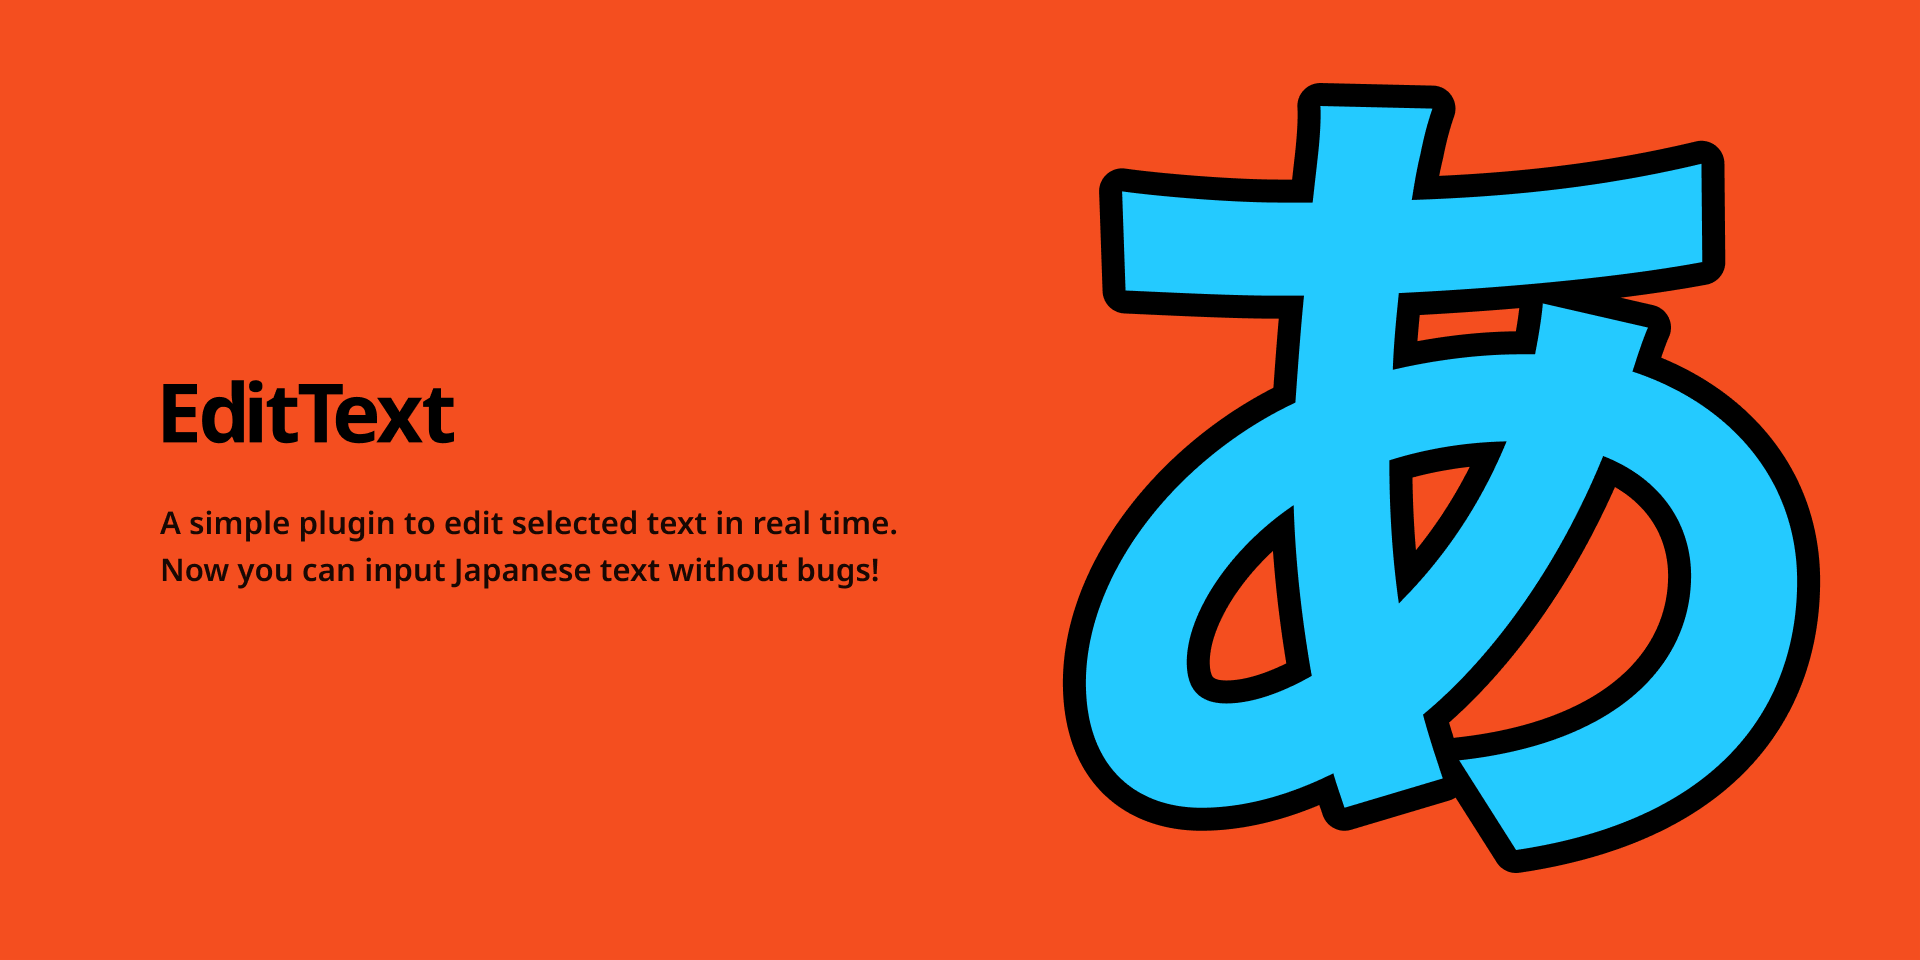
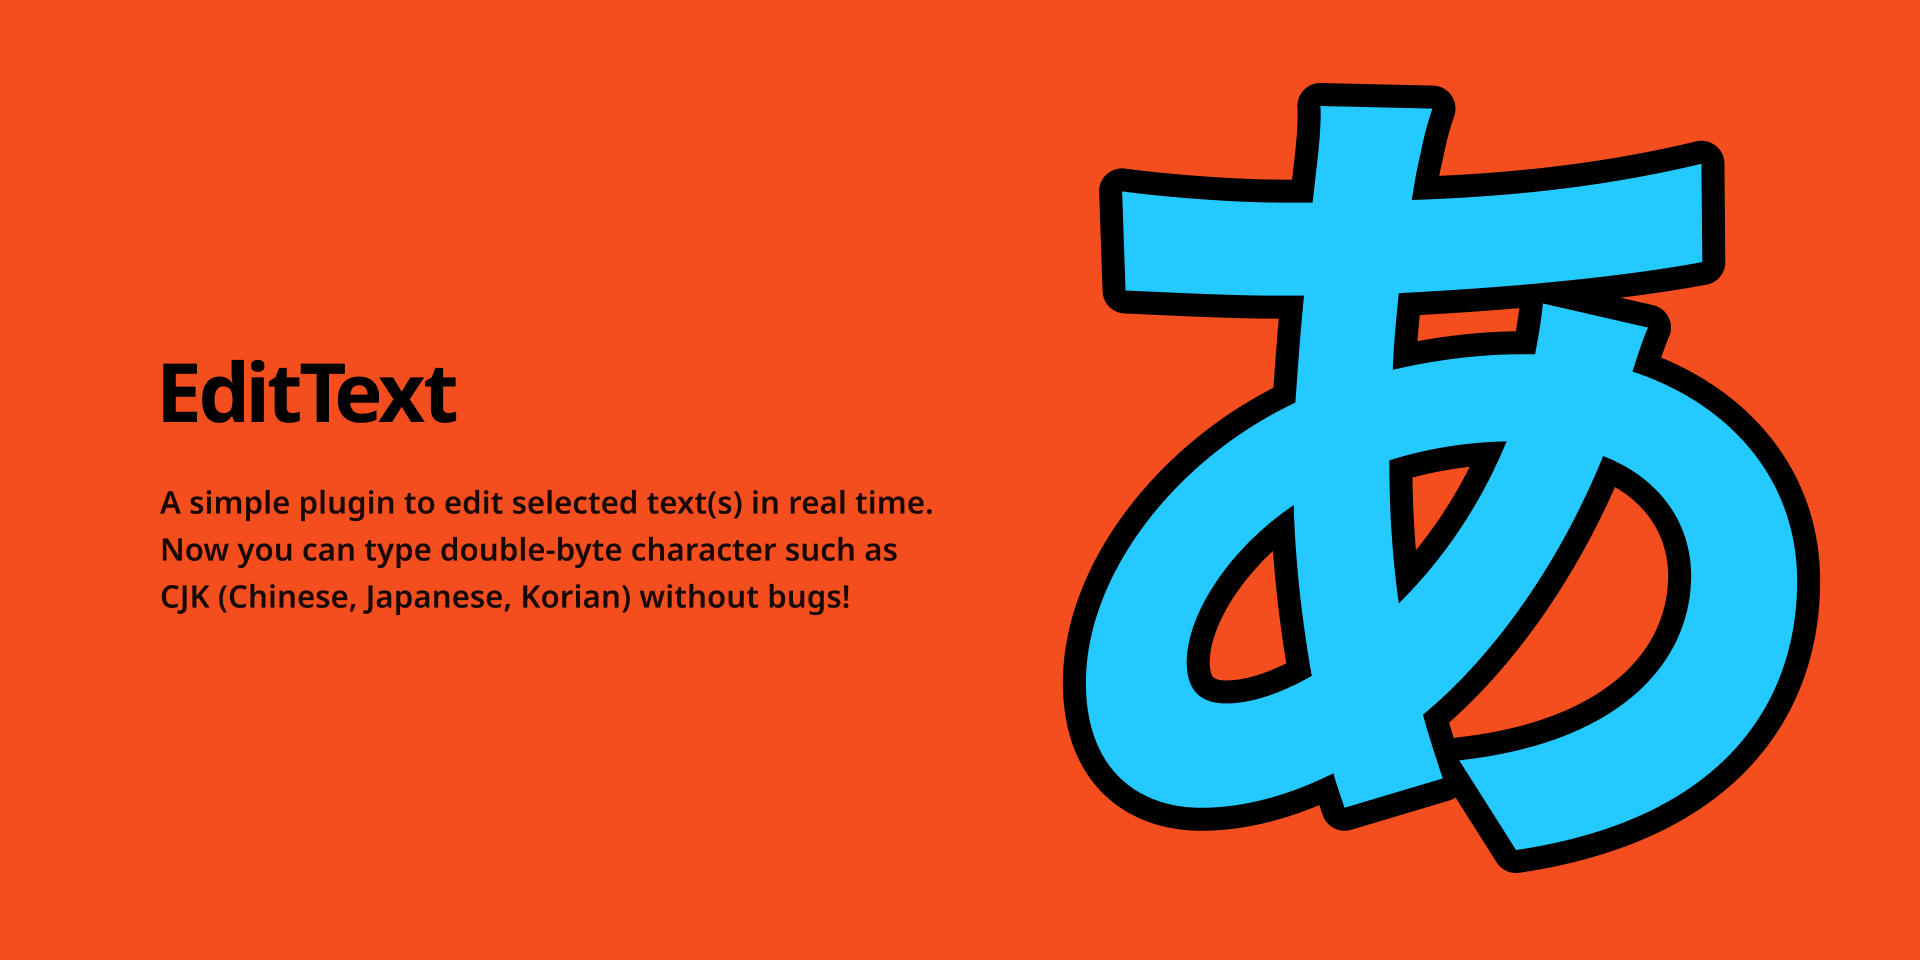
update info

Changed region(s): [[0.0625, 0.5, 0.5, 0.6562], [0.0625, 0.375, 0.25, 0.4688]]

diff --git a/README.md b/README.md
@@ -1,1 +1,26 @@
 # EditText Figma Plugin
+
+![](./cover.png)
+
+A simple plugin to edit selected text(s) in real time.  
+Now you can type double-byte character such as CJK (Chinese, Japanese, Korian) without bugs!
+
+## 🔥 What you can:
+
+- Edit characters of selected text layer in real time
+- Edit multiple text layers
+- Type double-byte character such as CJK (Chinese, Japanese, Korian) without bugs
+- Press 'Esc' or 'Cmd + Enter' to close this plugin
+
+## 📮 Support:
+
+If you have any plobrem or feedback, please use the GitHub Issues.
+https://github.com/ryonakae/figma-plugin-edit-text/issues
+
+---
+
+This plugin is made by Ryo Nakae 🙎♂.
+
+- https://brdr.jp
+- https://twitter.com/ryo_dg
+- https://github.com/ryonakae
